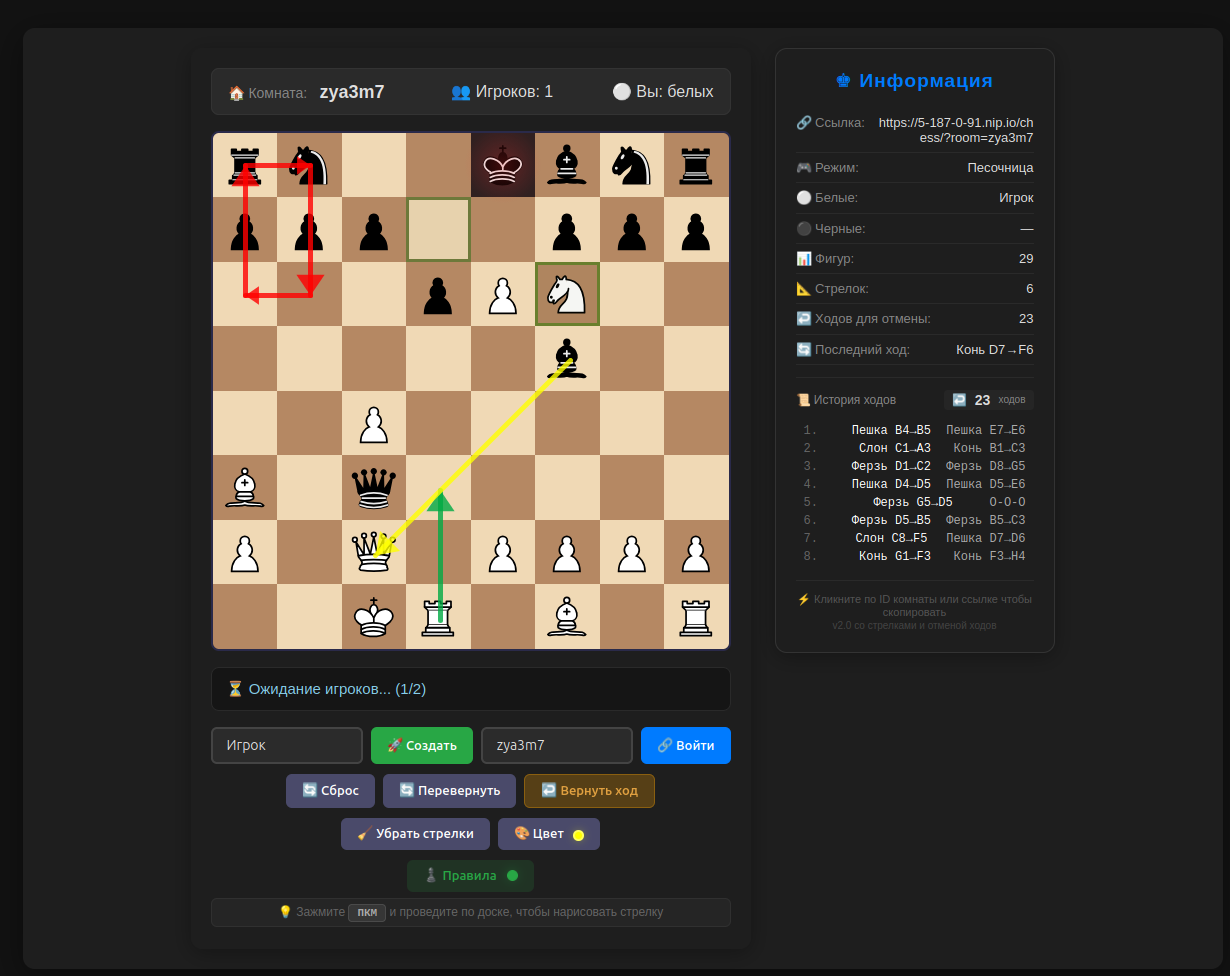
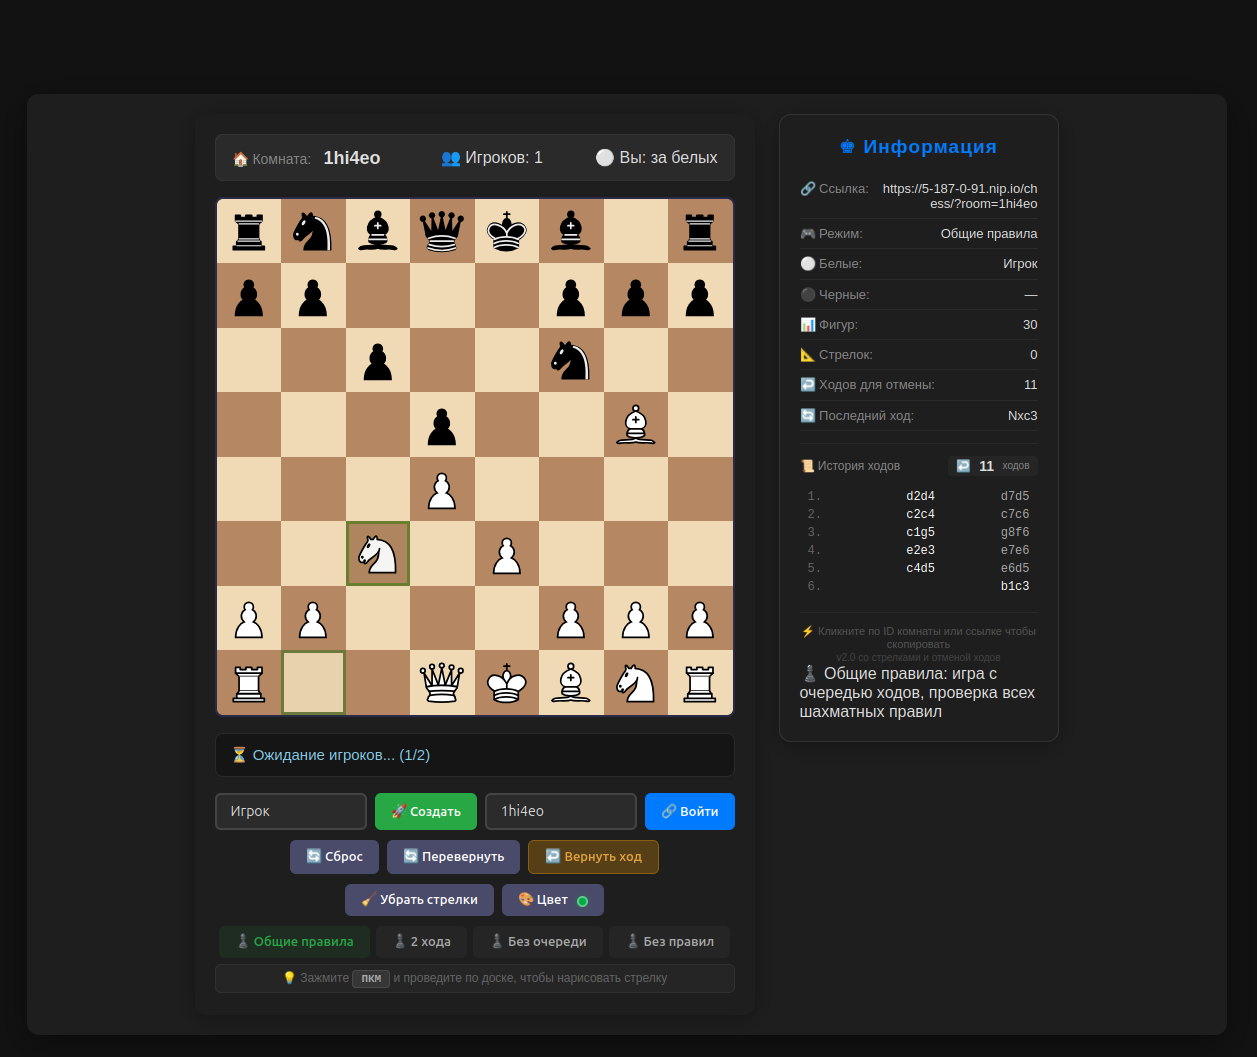
readme

Changed region(s): [[0.1545, 0.0615, 0.8341, 0.9529], [0.6797, 0.0615, 0.8033, 0.0922]]

diff --git a/README.md b/README.md
@@ -2,14 +2,16 @@
 
 Онлайн площадка для обучения и игры в шахматы. 
 
-1. Реализована проверка правил ходов, а также возможность играть без правил (есть кнопка отключения правил), 
-    показывая сопернику хорошие ходы. 
-    Без правил можно делать любые ходы за себя и за соперника. 
-2. Пока что, можно делать несколько ходов подряд за один цвет, даже, если играешь по правилам. 
-    Проверка на очередность ходов ещё не реализована.
-3. Любой из своих ходов и ходов сопеника можно всегда отменить. 
-4. Реализована подсветка последнего хода. 
-5. Реализована подсветка шаха. 
+1. На текущий момент реализованы 4 варианта игры:
+    1.1 Режим игра по стандартным правилам.
+    1.2 Режим игры где у каждого игрока по два хода подряд. 
+        "Марсельские шахматы" (Для обучения двухходового мышления). 
+    1.3 Режим игры без проверки очереди ходов, но с проверкой правил (Для обучения).
+    1.4 Режим игры без правил - можно делать любые ходы за себя и за соперника (Режим для обучения).
+
+2. Любой из своих ходов и ходов сопеника можно всегда отменить. 
+3. Реализована подсветка последнего хода. 
+4. Реализована подсветка шаха. 
 6. Добавлена возможность рисовать стрелки с зажатой правой кнопкой мыши. 
     Стрелки видны всем игрокам.
     Возможность выбора цвета стрелок, удаление всех стрелок кнопкой на панели.  
@@ -21,10 +23,20 @@
 ## Для старта игры - нажать кнопку "Cоздать", создается комната для игроков, 
 далее нажать на ссылку с названием комнаты, ссылка должна скопироваться в буфер, и её можно отправлять соперникам и зрителям по игре.
 
+## Правила Игры в два хода: 
+режим игры "Марсельские шахаматы"
+
+1. Ход белых: обычно, чтобы уравнять преимущество первого хода, 
+белые начинают партию с одного хода, и только потом все игроки ходят по два раза 
+
+2. Шах: если вы первым ходом объявили шах, то право на второй ход в этом turn теряется . 
+А если шах объявили вам, вы обязаны парировать его первым ходом своего turn
+
+3. Движение одной фигуры: запрещено ходить одной и той же фигурой дважды за turn
+
 ## To Do:
 
-1. Реализовать проверку очередности ходов в режиме игры по правилам. 
-2. Добавить возможность копирования нотации в стандартном формате. 
-3. Прикрутить базы данных PostgreSQL, для хранения партий. 
+1. Добавить возможность копирования нотации в стандартном формате. 
+2. Прикрутить базы данных PostgreSQL, для хранения партий. 
 
 ![Скриншот](images/pic1.png)